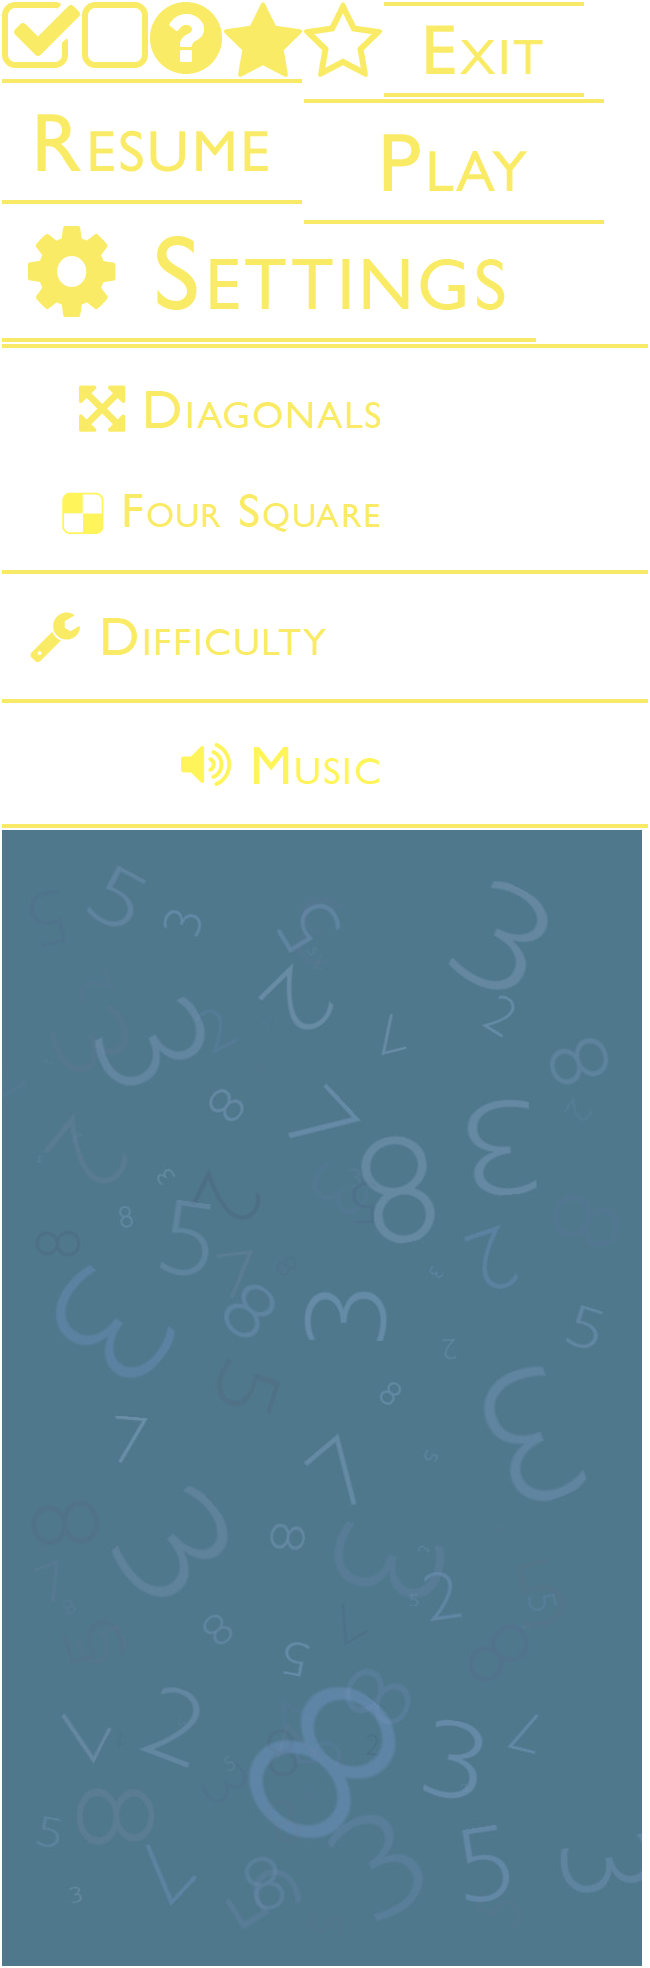
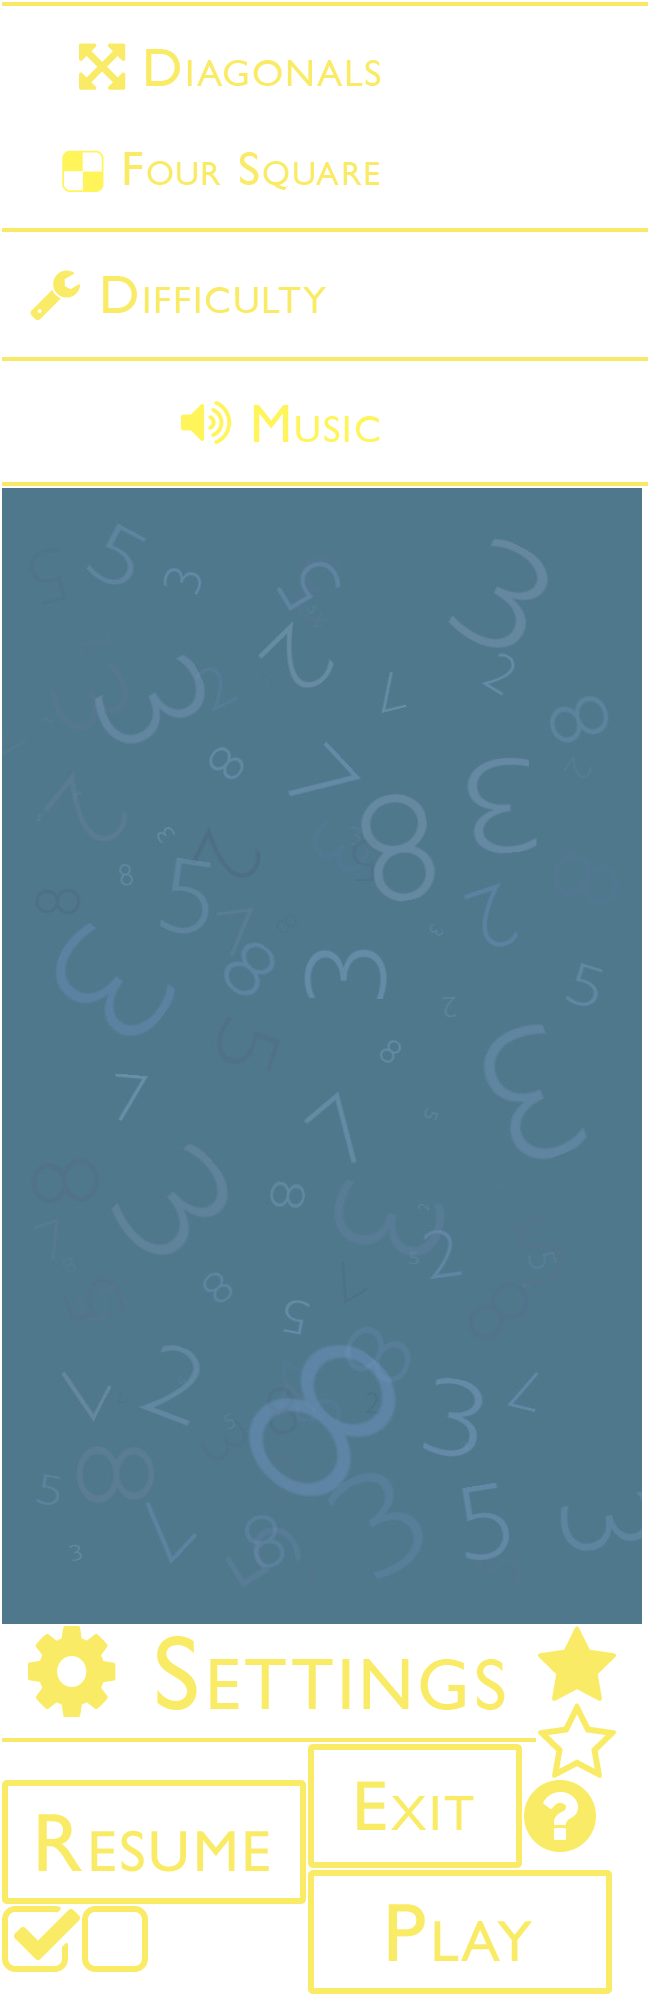
Adjust settings screen bottom buttons

diff --git a/core/src/com/numberquarto/SettingsScreen.java b/core/src/com/numberquarto/SettingsScreen.java
@@ -177,8 +177,7 @@ public class SettingsScreen implements Screen {
 
 	@Override
 	public void show() {
-		stage = new Stage(new FitViewport(Launch.SCREEN_WIDTH,
-				Launch.SCREEN_HEIGHT));
+		stage = new Stage(new FitViewport(Launch.SCREEN_WIDTH, Launch.SCREEN_HEIGHT));
 		Gdx.input.setInputProcessor(stage);
 
 		TitleBackground background = new TitleBackground();
@@ -247,13 +246,13 @@ public class SettingsScreen implements Screen {
 		Drawable exitButtonSkin = skin.getDrawable("exit_button");
 
 		playButton = new ImageButton(playButtonSkin);
-		playButton.setBounds(311, Launch.SCREEN_HEIGHT - 1083,
+		playButton.setBounds(296, Launch.SCREEN_HEIGHT - 1085,
 				RIGHT_BUTTON_WIDTH, RIGHT_BUTTON_HEIGHT);
 		resumeButton = new ImageButton(resumeButtonSkin);
-		playButton.setBounds(311, Launch.SCREEN_HEIGHT - 1083,
+		playButton.setBounds(296, Launch.SCREEN_HEIGHT - 1085,
 				RIGHT_BUTTON_WIDTH, RIGHT_BUTTON_HEIGHT);
 		exitButton = new ImageButton(exitButtonSkin);
-		exitButton.setBounds(50, Launch.SCREEN_HEIGHT - 1068,
+		exitButton.setBounds(40, Launch.SCREEN_HEIGHT - 1085,
 				LEFT_BUTTON_WIDTH, LEFT_BUTTON_HEIGHT);
 		exitButton.addListener(new ClickListener() {
 			public boolean touchDown(InputEvent event, float x, float y,
